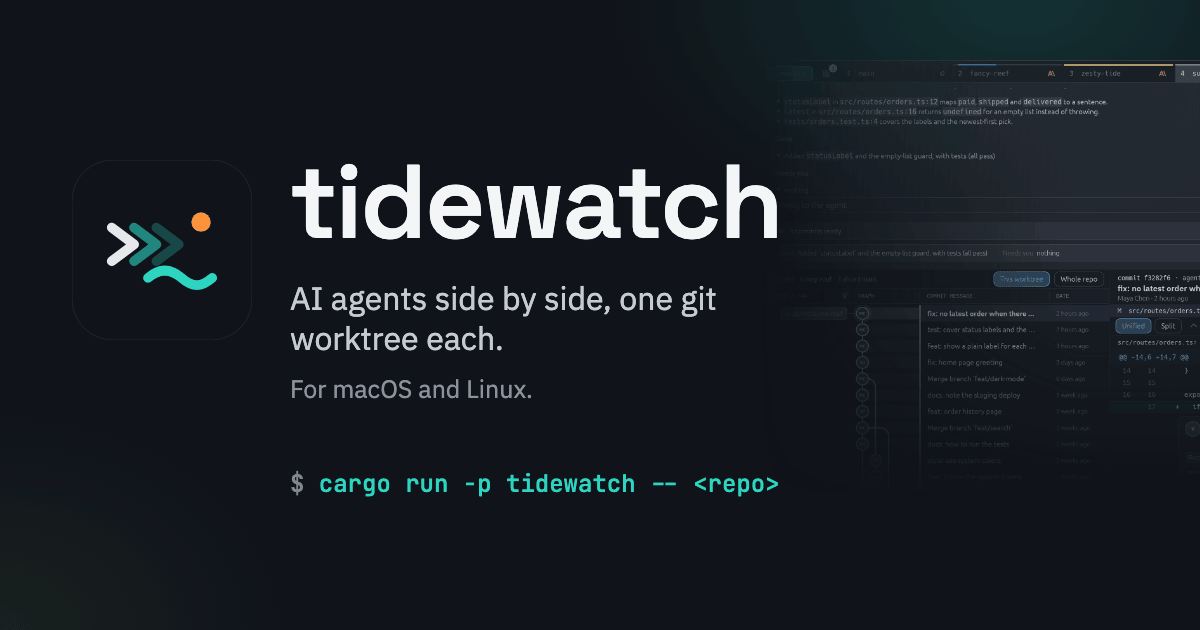
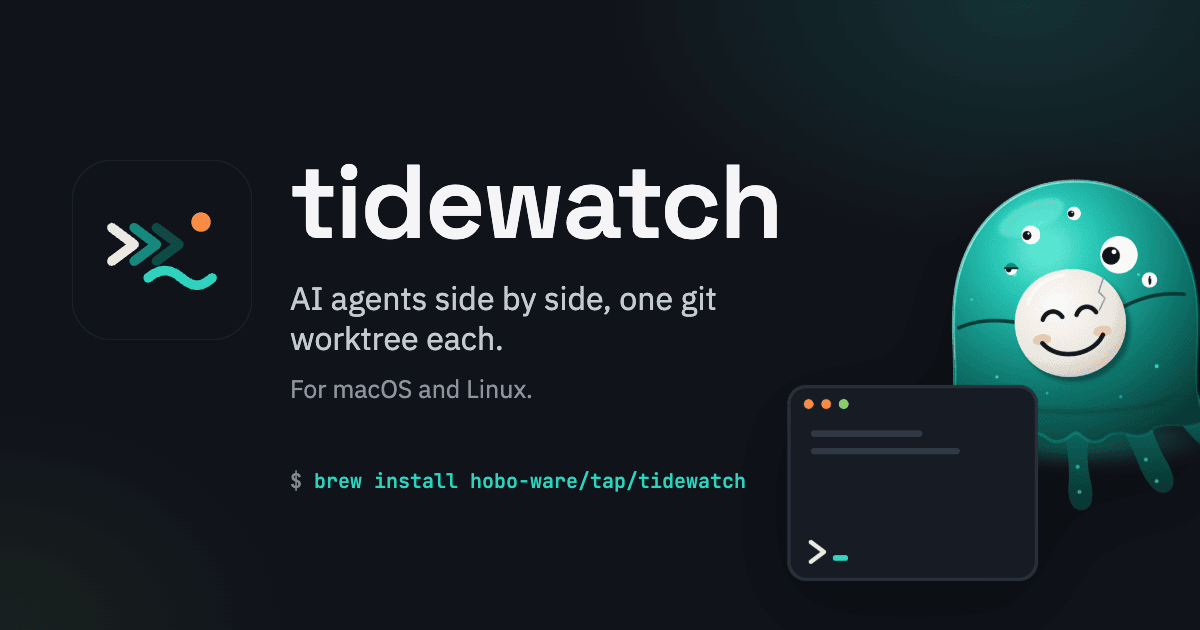
feat(site): put the mascot in the og image
tidewatch-og.png 1200x630, 47015 B to 37425 B (pngquant 64 colors, oxipng; PSNR 43.7 dB against the 174344 B render). The dimmed app screenshot is replaced by the hero mascot, and the command line now shows the Homebrew install.

diff --git a/site/index.html b/site/index.html
@@ -17,7 +17,7 @@
 <meta property="og:image" content="https://tidewatch.hoboware.dev/tidewatch-og.png">
 <meta property="og:image:width" content="1200">
 <meta property="og:image:height" content="630">
-<meta property="og:image:alt" content="The Tidewatch mark next to the app window: an agent's answer, the worktree history and a diff">
+<meta property="og:image:alt" content="The Tidewatch mark and name next to its mascot, a shoggoth in a smiley mask, beside a terminal">
 <meta name="twitter:card" content="summary_large_image">
 <meta name="twitter:title" content="Tidewatch - AI coding agents, one git worktree each">
 <meta name="twitter:description" content="A desktop app for macOS and Linux that runs AI coding agents side by side. Every tab is its own git worktree.">
